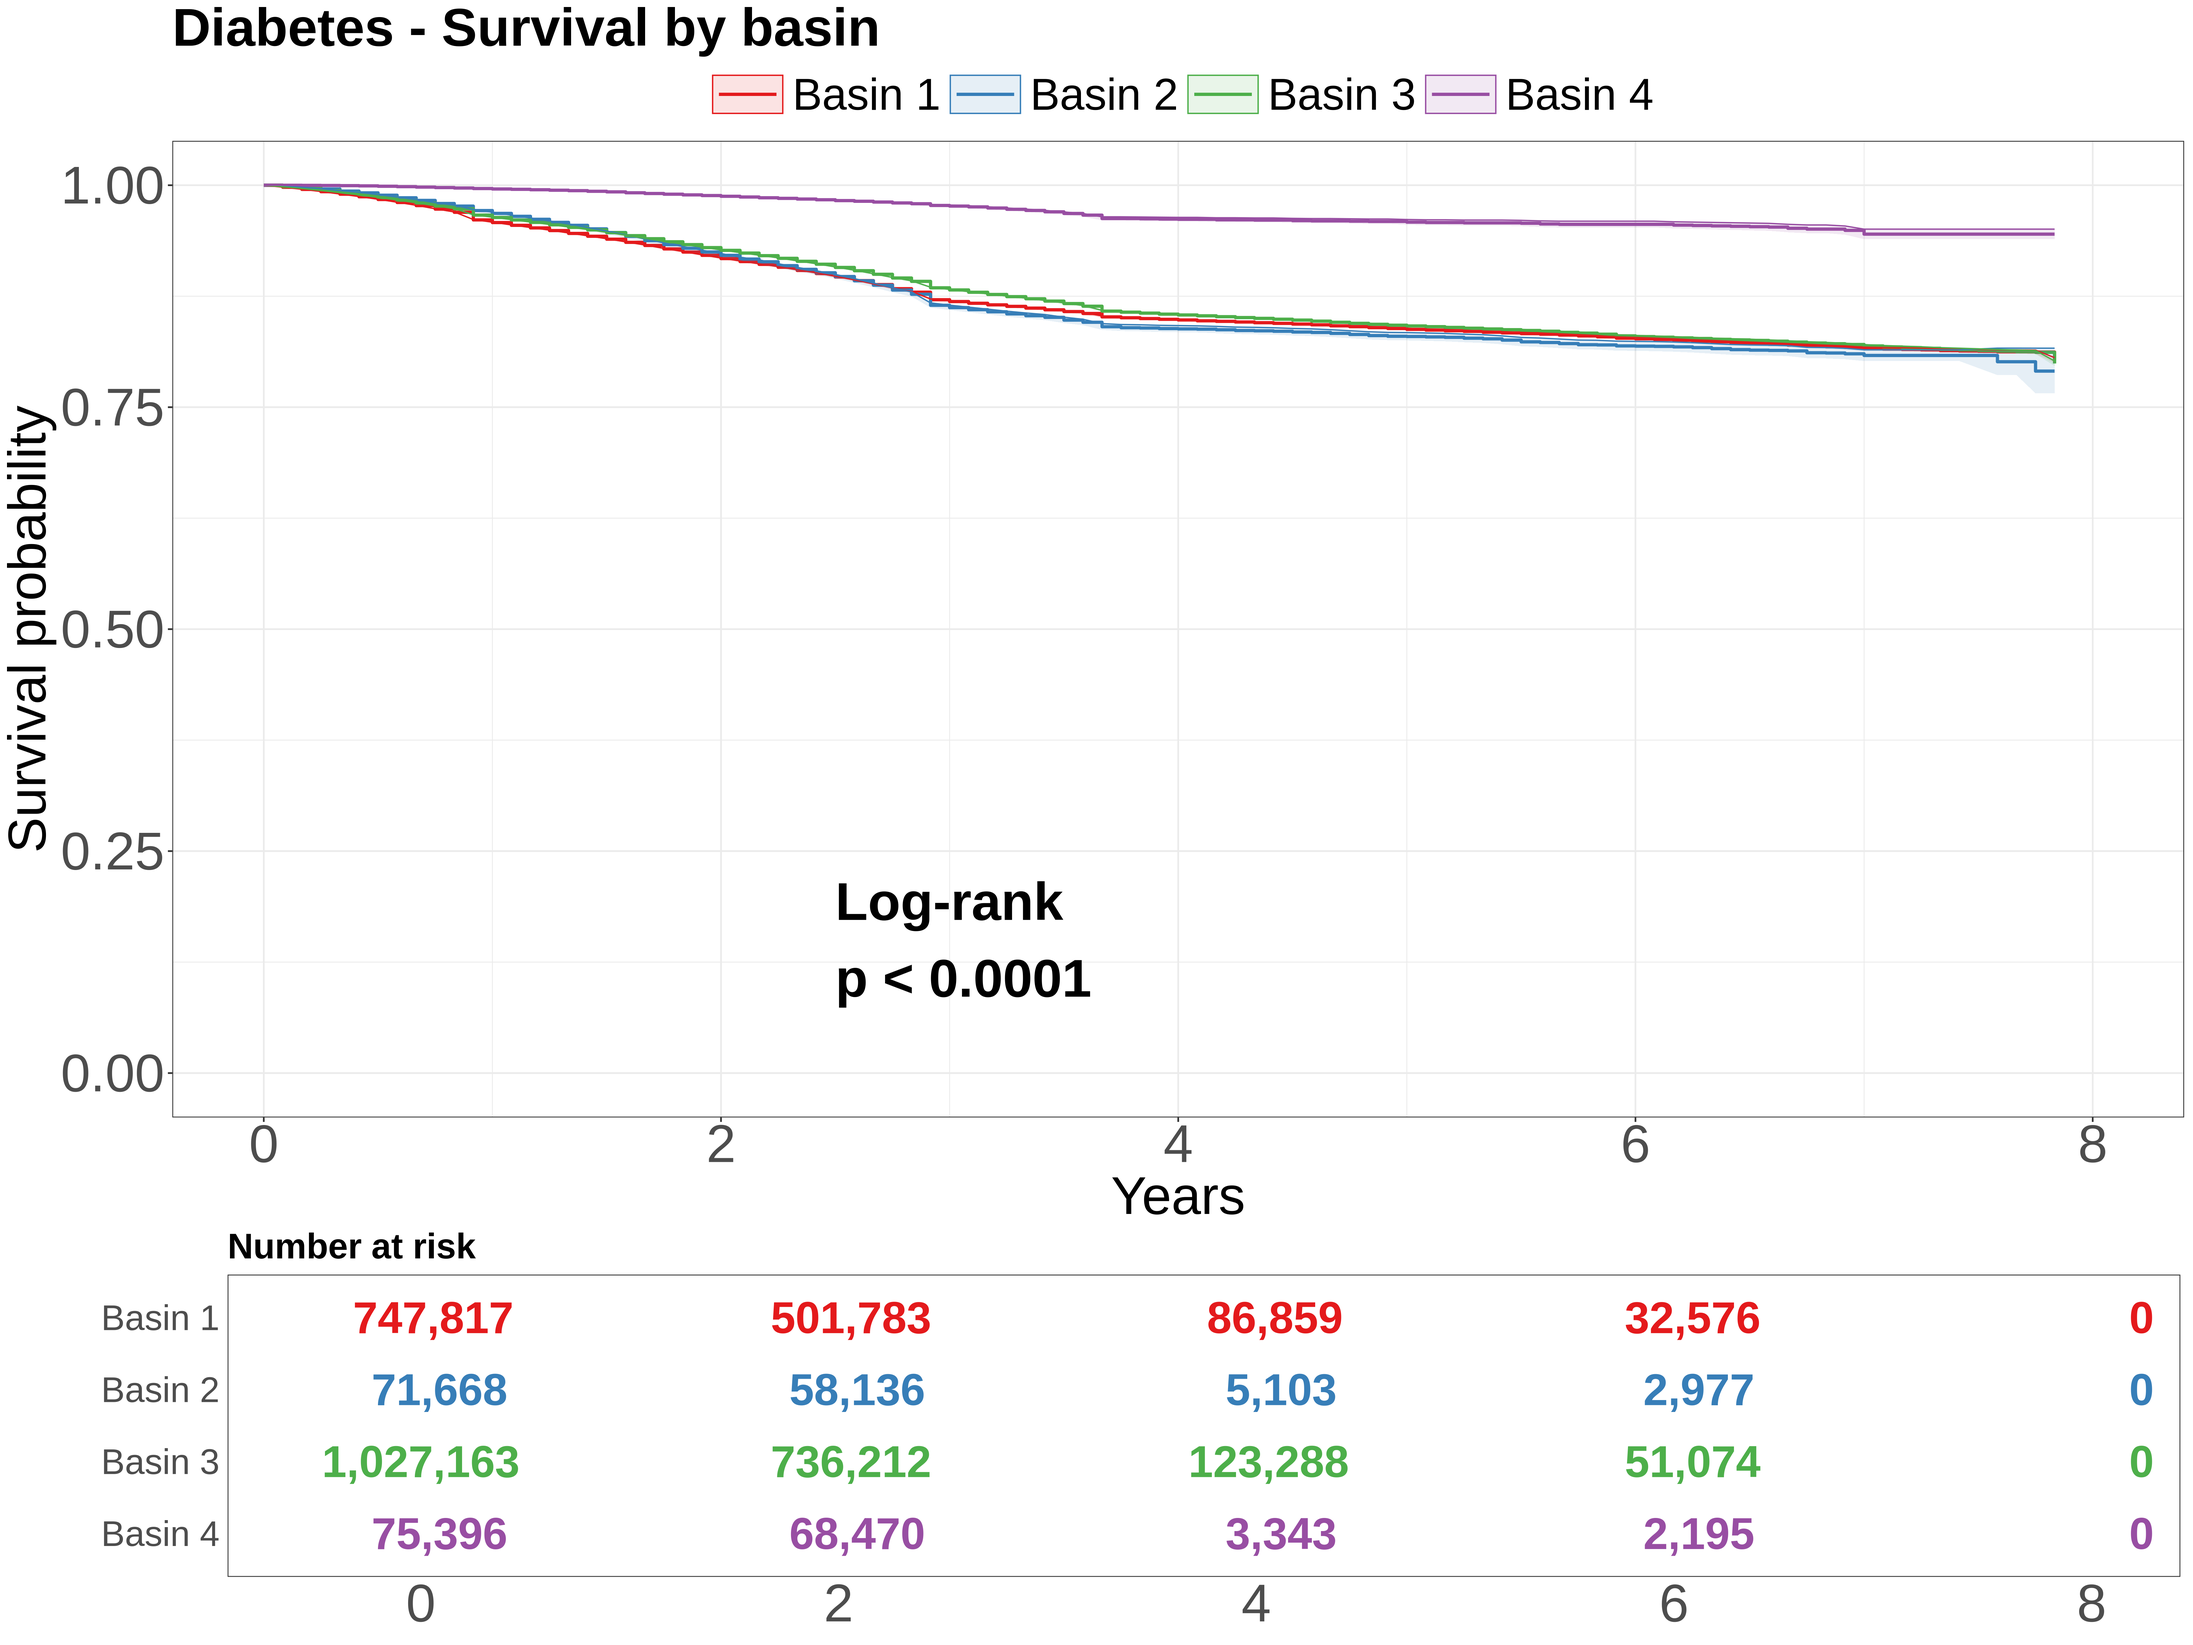
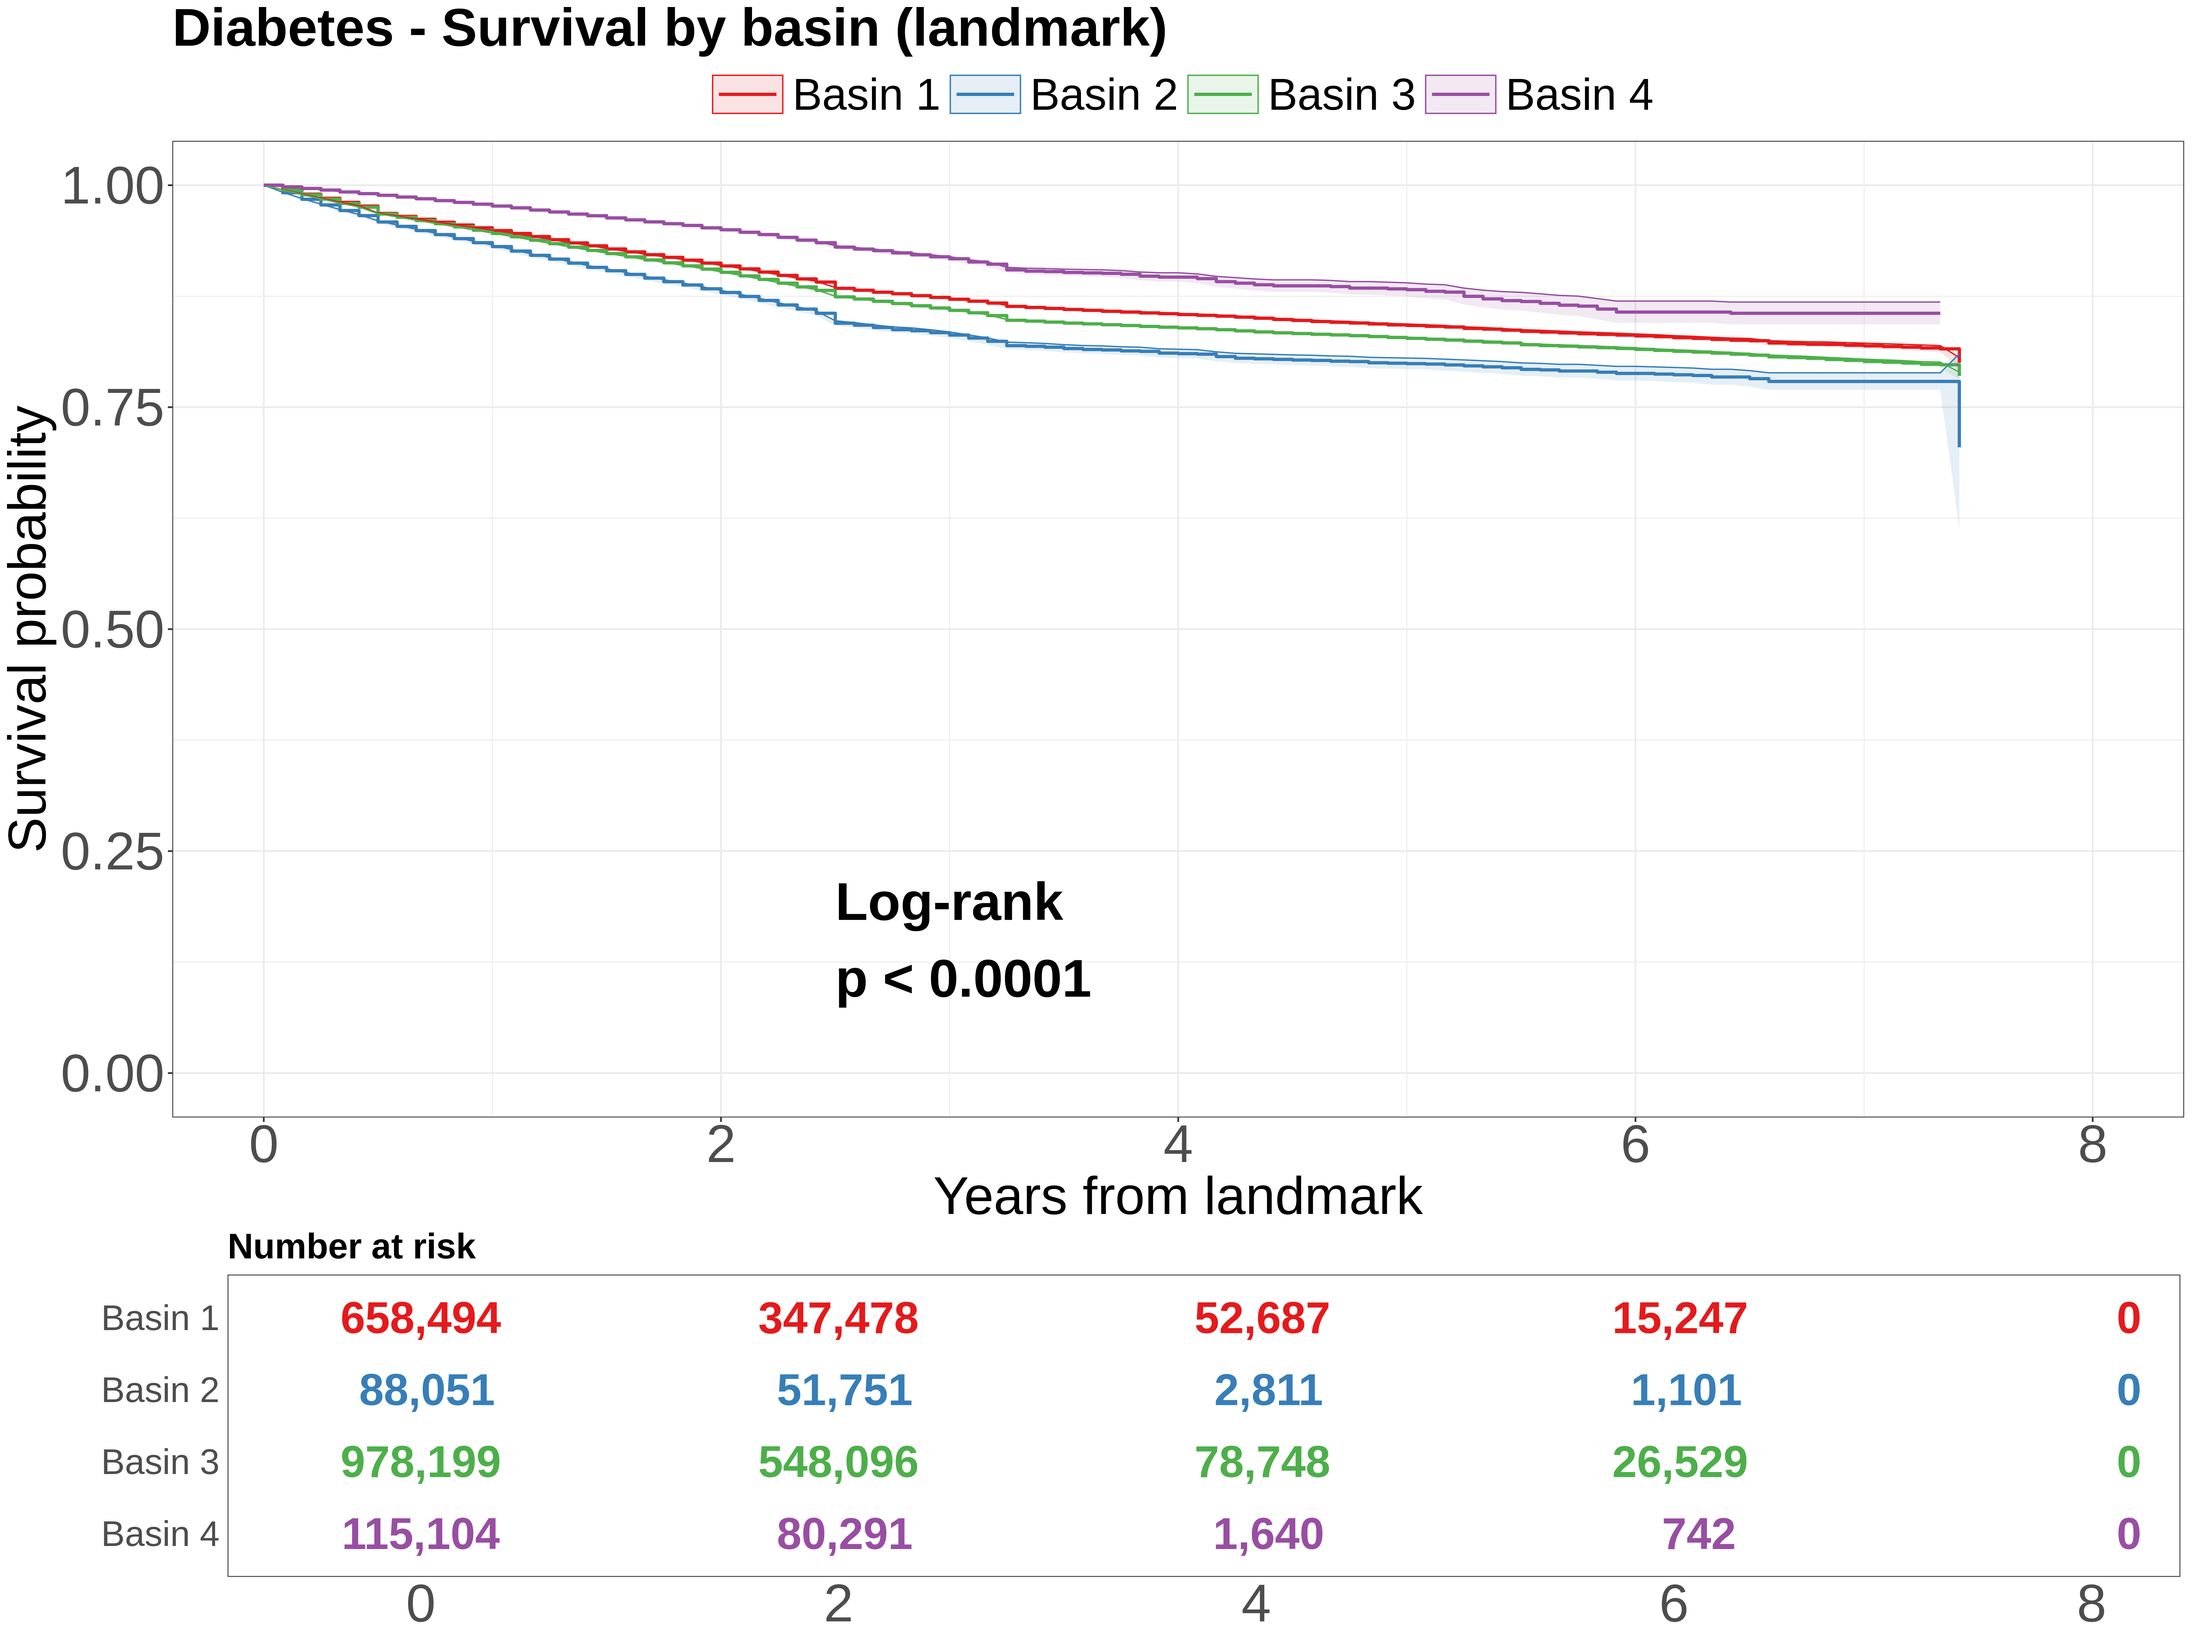
Replace Fig06_b KM with landmark design
Adopted landmark KM candidate (fu_time from landmark window end,
n=1,839,848). Basin separation now matches per_basin_mortality_summary.tsv.

diff --git a/plot/Figures/UNRESOLVED_ISSUES.md b/plot/Figures/UNRESOLVED_ISSUES.md
@@ -15,18 +15,9 @@ Status as of 2026-11-02.
 9. **FigS2 pattern names → C3–C6**: Legend and right-margin region labels updated. 33 diseases (34 multi-basin minus schizophrenia). Script: `src/regen_figs2_pattern_space.py`.
 10. **Fig07_comparison.png panel titles → C3–C5**: Dementia (C3), Heart Failure (C4), Diabetes (C5). All cell values unchanged. Script: `src/fig07_transition_comparison.R`.
 11. **Fig06_a Basin 2 HR label corrected**: 1.17 → 1.19 (per_basin_mortality_summary.tsv landmark HR = 1.193). Script: `src/fig06a_diabetes_basin1_vs_2.R`.
+12. **Fig06_b replaced with landmark KM**: landmark_cohort.tsv (fu_time from landmark window end). n=1,839,848. Basin separation clear, n values match per_basin_mortality_summary.tsv. Source: `paper/claude/review_candidates/fig06b_landmark_km.R`.
 
 ## Author action items — specific changes needed
-
-### 12. Fig 6b: replace KM with landmark design
-
-Current `Fig06/Fig06_b_diabetes_km.png` uses patient_scores.tsv with total insurance period (observable_end_ym − observable_start_ym) as survival time. Manuscript describes landmark design (fu_time from landmark window end).
-
-- **Candidate**: `paper/claude/review_candidates/Fig06_b_diabetes_km_landmark.png`
-- **Generation code**: `paper/claude/review_candidates/fig06b_landmark_km.R`
-- **Input**: `output/diabetes/all_comorbid/landmark/landmark_cohort.tsv` (existing file, no recalculation)
-- **Population**: shibou_flg_riyouka=1, basin_id>0, fu_time>0 → n=1,839,848
-- **Decision needed**: adopt the landmark candidate or keep the current figure
 
 ### 13. Fig01 workflow numbers
 
